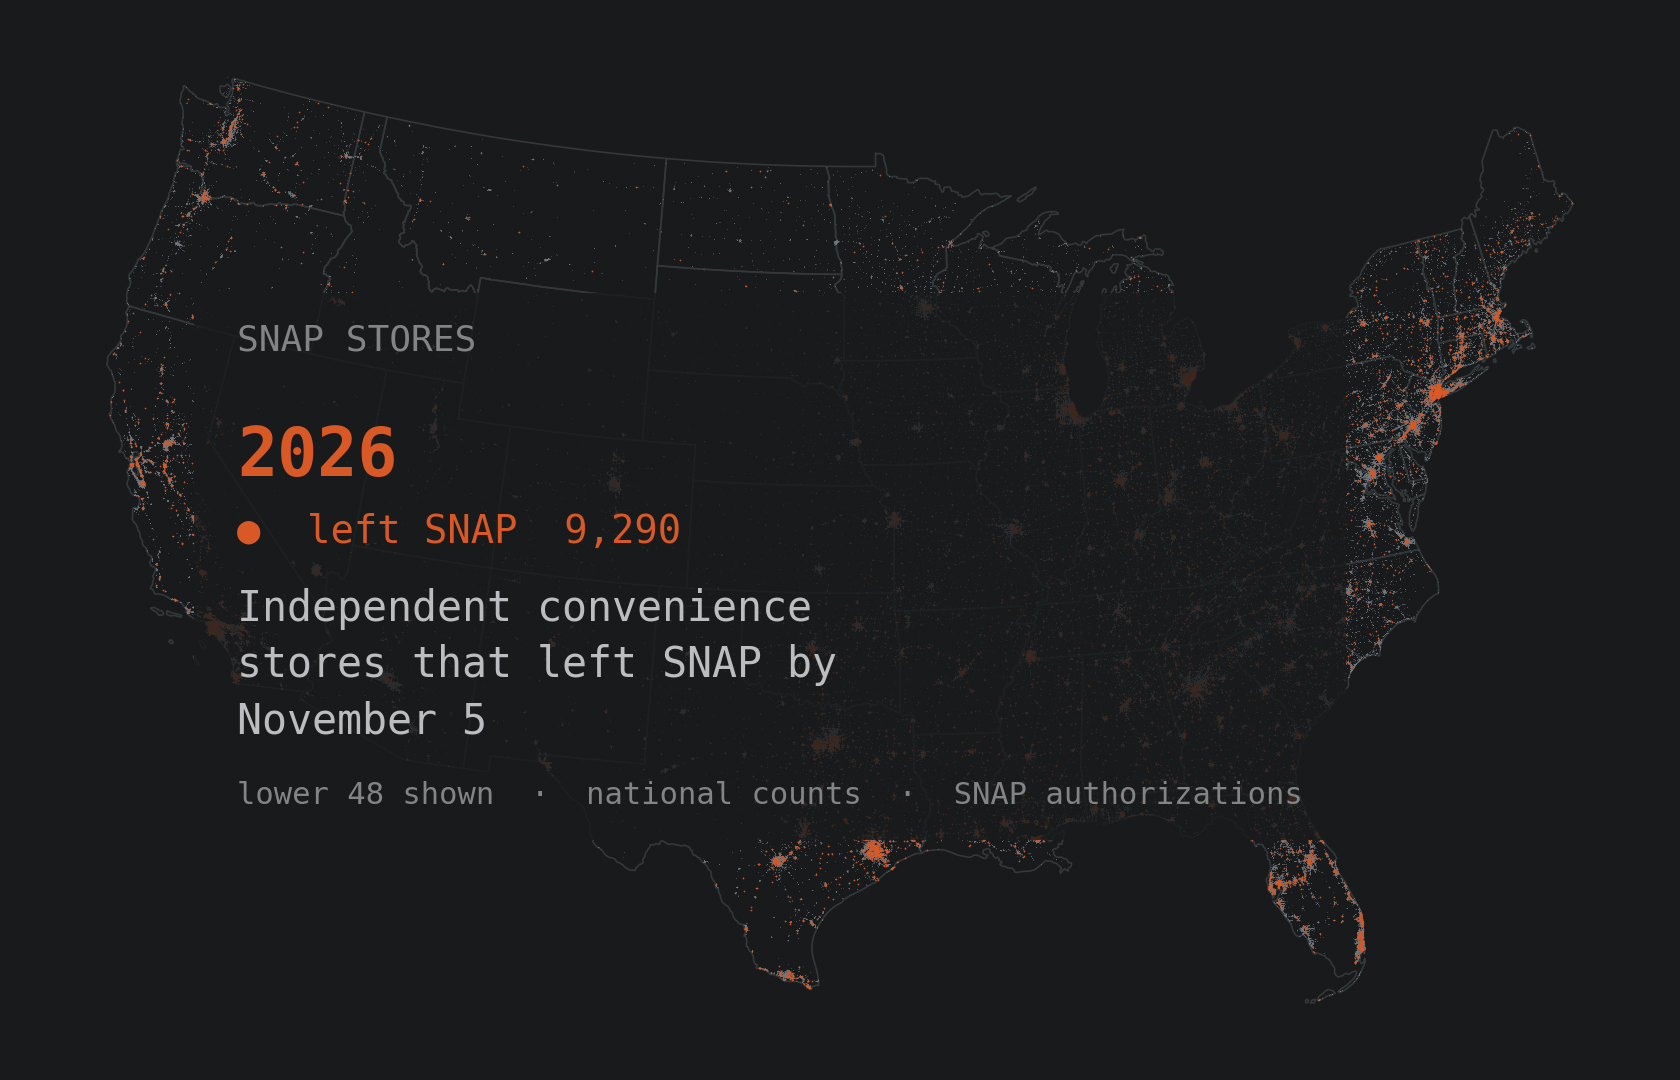
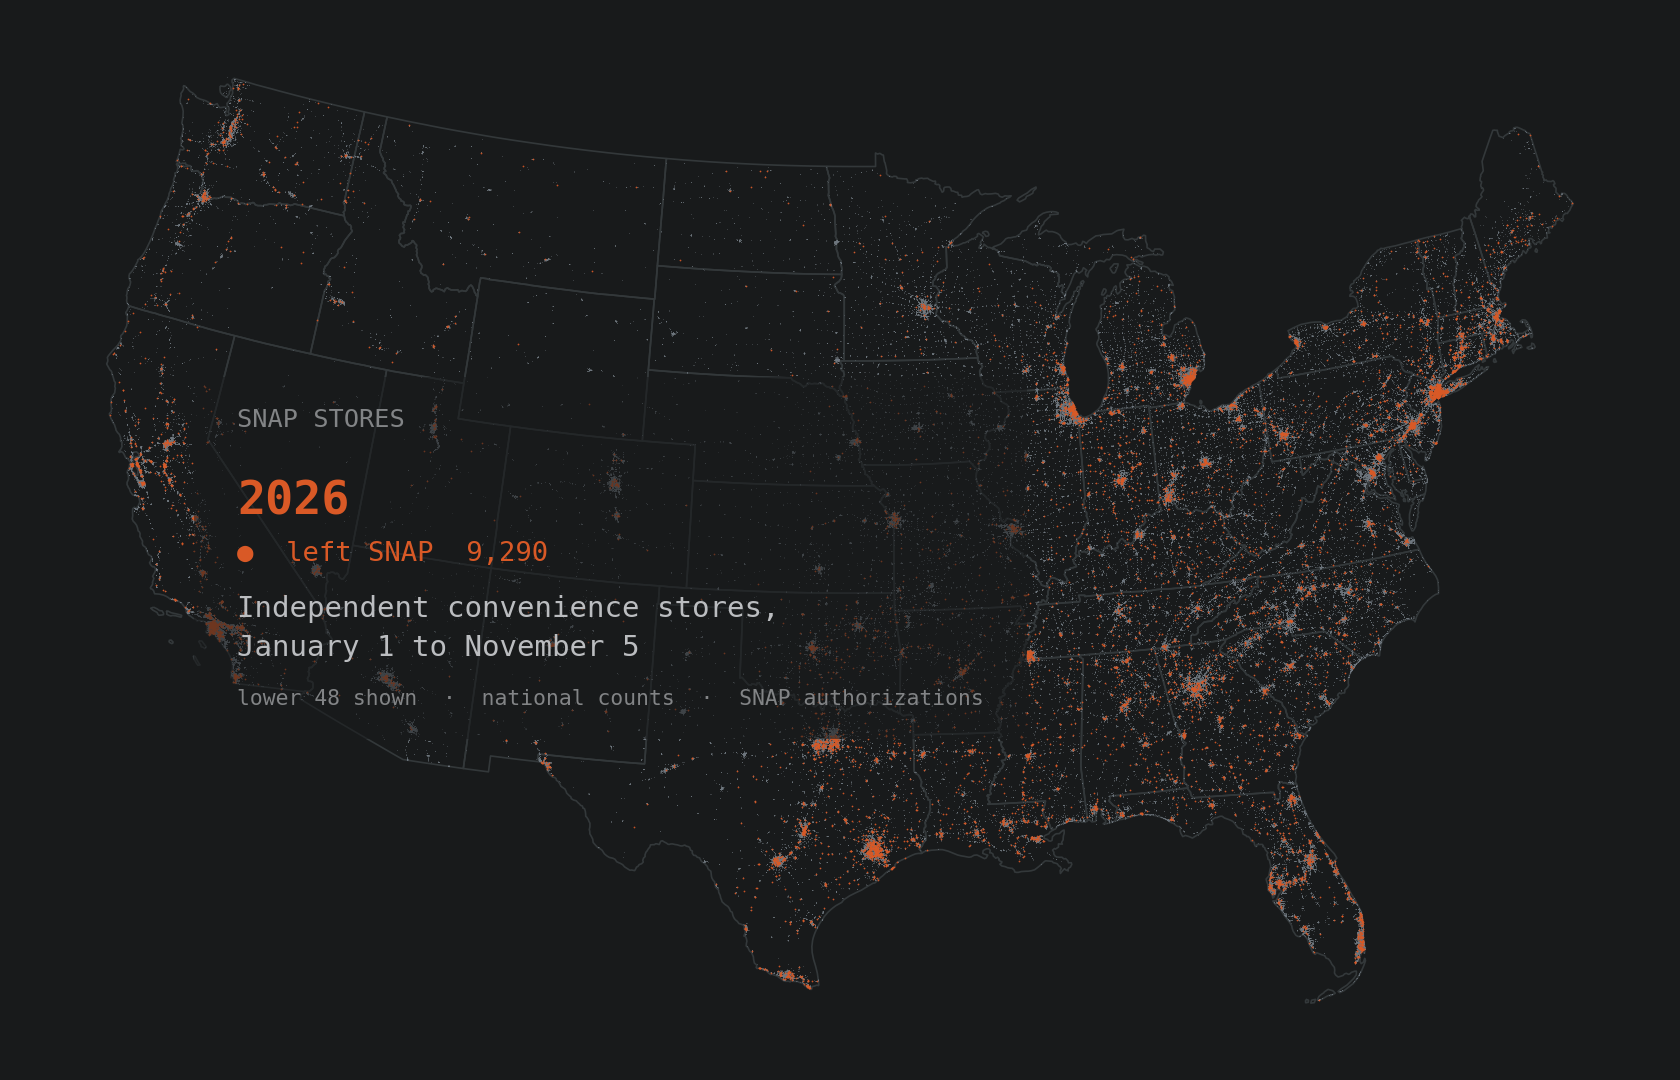
snap-stores-leaving-2026: smaller, lighter hero text panel

diff --git a/src/analysis/hero.py b/src/analysis/hero.py
@@ -118,7 +118,7 @@ def split(con, where, then, now):
     return out
 
 
-def render(path, day, layers, caption, kicker=None, big=None):
+def render(path, day, layers, caption, kicker=None, big=None, scale=1.0, panel_alpha=0.80):
     """`layers` = [{xy, color, size, alpha}] drawn in order, first at the back."""
     fig = plt.figure(figsize=(W_PX / DPI, H_PX / DPI), dpi=DPI, facecolor=PAPER)
     ax = fig.add_axes([0, 0, 1, 1])
@@ -167,20 +167,20 @@ def render(path, day, layers, caption, kicker=None, big=None):
              (big or (f"DAY {day}" if day else "THE MAP"), 24, HUE.get(day, S[0]), 2.0)]
     for L in [q for q in layers if q.get("label")]:
         block.append(("\u25cf  " + L["label"], 14, L["color"], 1.55))
-    for i, line in enumerate(textwrap.wrap(caption, 24)):
+    for i, line in enumerate(textwrap.wrap(caption, round(24 / scale))):
         block.append((line, 15, INK, 1.9 if i == 0 else 1.35))
     block.append(("lower 48 shown  ·  national counts  ·  SNAP authorizations",
                   11, INK_SOFT, 2.2))
 
     LX = 0.135
-    height = sum(sz * lead * PT for _, sz, _, lead in block)
+    height = sum(sz * scale * lead * PT for _, sz, _, lead in block)
     top = 0.500 + height / 2          # vertically centred on the frame
 
     drawn, y = [], top
     for text, size, color, lead in block:
-        y -= size * lead * PT
+        y -= size * scale * lead * PT
         drawn.append(ax.text(LX, y, text, transform=ax.transAxes,
-                             family="DejaVu Sans Mono", fontsize=size, color=color,
+                             family="DejaVu Sans Mono", fontsize=size * scale, color=color,
                              va="bottom", zorder=9,
                              fontweight="bold" if size == 24 else "normal"))
 
@@ -196,7 +196,7 @@ def render(path, day, layers, caption, kicker=None, big=None):
     pad_x, pad_y = 0.026, 0.028
     ax.add_patch(plt.Rectangle((x0 - pad_x, y0 - pad_y),
                                (x1 - x0) + pad_x * 2, (y1 - y0) + pad_y * 2,
-                               transform=ax.transAxes, facecolor=PAPER, alpha=0.80,
+                               transform=ax.transAxes, facecolor=PAPER, alpha=panel_alpha,
                                edgecolor="none", zorder=8))
     if x1 + pad_x > 0.82:
         print(f"    note: text block reaches x={x1 + pad_x:.2f}, outside the "
@@ -432,8 +432,11 @@ def main():
                [{"xy": xy(z["still"]), "color": MUTED, "size": 0.35, "alpha": 0.40},
                 {"xy": xy(z["left"]), "color": HUE[8], "size": 1.6, "alpha": 0.9, "z": 3,
                  "label": f"left SNAP  {int(z['n_left']):,}"}],
-               "Independent convenience stores that left SNAP by November 5",
-               kicker="SNAP STORES", big="2026")
+               "Independent convenience stores, January 1 to November 5",
+               kicker="SNAP STORES", big="2026",
+               # Smaller type and a lighter panel than the series frames, so
+               # the box covers less of the map (Eric, 2026-11-10).
+               scale=0.70, panel_alpha=0.55)
 
 
 if __name__ == "__main__":

diff --git a/posts/snap-stores-leaving-2026/POST.md b/posts/snap-stores-leaving-2026/POST.md
@@ -5,7 +5,7 @@ slug: snap-stores-leaving-2026
 date:
 section: Data 4 Thought
 hero: images/snap-stores-leaving-2026-hero-1680x1080.png
-hero_alt: Dark map of the lower 48 states. Faint gray dots mark every store still authorized to accept SNAP. Orange dots mark the 9,290 independent convenience stores that left SNAP between January 1 and November 5, 2026. The orange clusters are thickest in large metro areas, including New York, Houston, Los Angeles, Chicago and South Florida. Text on the left reads: SNAP stores, 2026, left SNAP 9,290, Independent convenience stores that left SNAP by November 5.
+hero_alt: Dark map of the lower 48 states. Faint gray dots mark every store still authorized to accept SNAP. Orange dots mark the 9,290 independent convenience stores that left SNAP between January 1 and November 5, 2026. The orange clusters are thickest in large metro areas, including New York, Houston, Los Angeles, Chicago and South Florida. Text on the left reads: SNAP stores, 2026, left SNAP 9,290, Independent convenience stores, January 1 to November 5.
 meta_title:
 description:
 keywords:

diff --git a/STATUS.md b/STATUS.md
@@ -69,3 +69,4 @@ None. No later step had been confirmed under this file.
 - 2026-11-10 Eric checked Scott's Grocery (Hayes Center, NE): still open, recent Facebook posts. Accepted edit 16: the post says it is open but no longer on USDA's SNAP list.
 - 2026-11-10 Step 2b confirmed by Eric. Step 2c started: slice markup.
 - 2026-11-10 Step 2c confirmed by Eric. Step 2d: hero from chart 04 (independent convenience exits map), per Eric. `hero pad` on the PNG left the type too small, so re-rendered at hero scale in the series frame (`python -m analysis.hero 8`, dot fields saved by post8_beats so they match chart 04), with a post 8 lockup (SNAP STORES / 2026) instead of the seven-day series label. Alt text 456 characters; `hero check` ok. Chart 04 kept as `images/snap-stores-leaving-2026-hero-source.png`.
+- 2026-11-10 2d: Eric said the text box hid too much of the map. Post 8 hero type scaled to 70% with a lighter panel (55%); caption shortened to "Independent convenience stores, January 1 to November 5". Alt text updated.
